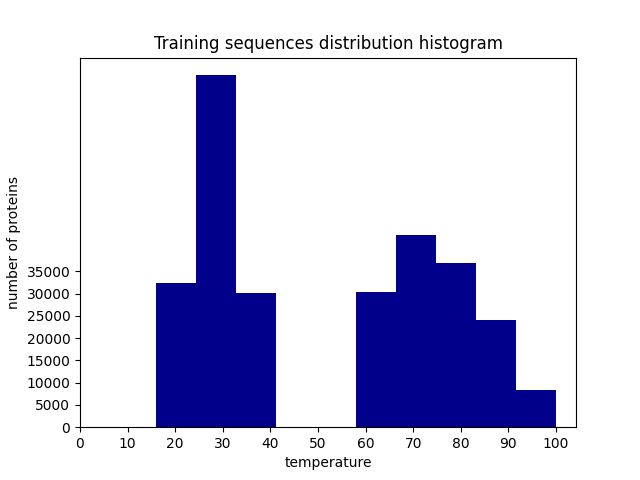
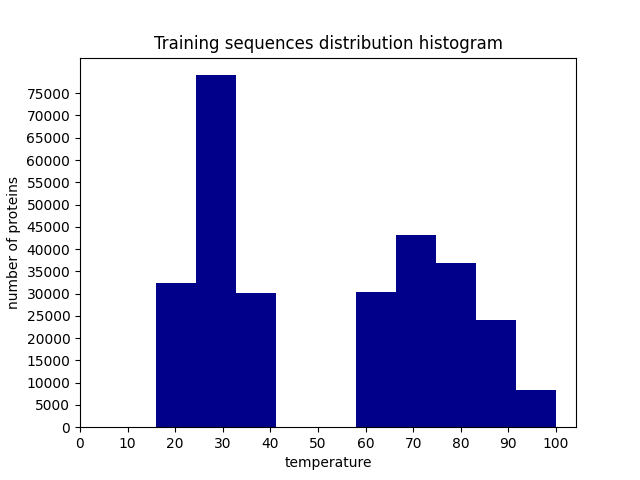
Updated y axis for training histogram.

Changed region(s): [[0.0312, 0.1875, 0.125, 0.5312]]

diff --git a/scripts/003/003_plot_histogram.py b/scripts/003/003_plot_histogram.py
@@ -41,7 +41,7 @@ file_handle.close()
 
 n, bins, patches = plt.hist(x=temperatures, bins=10, color='#00008b')
 plt.xticks(range(0, 110, 10))
-plt.yticks(range(0, 40000, 5000))
+plt.yticks(range(0, 80000, 5000))
 plt.xlabel('temperature')
 plt.ylabel('number of proteins')
 
